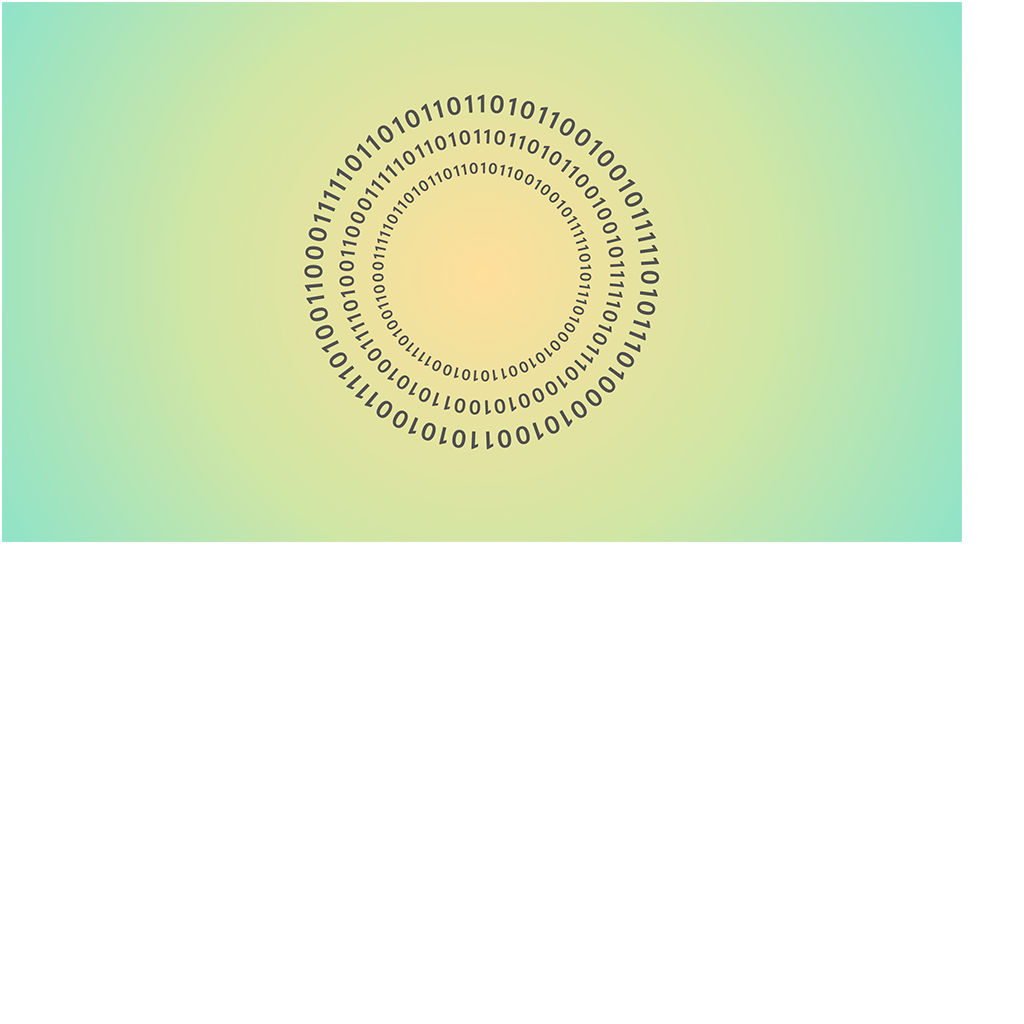
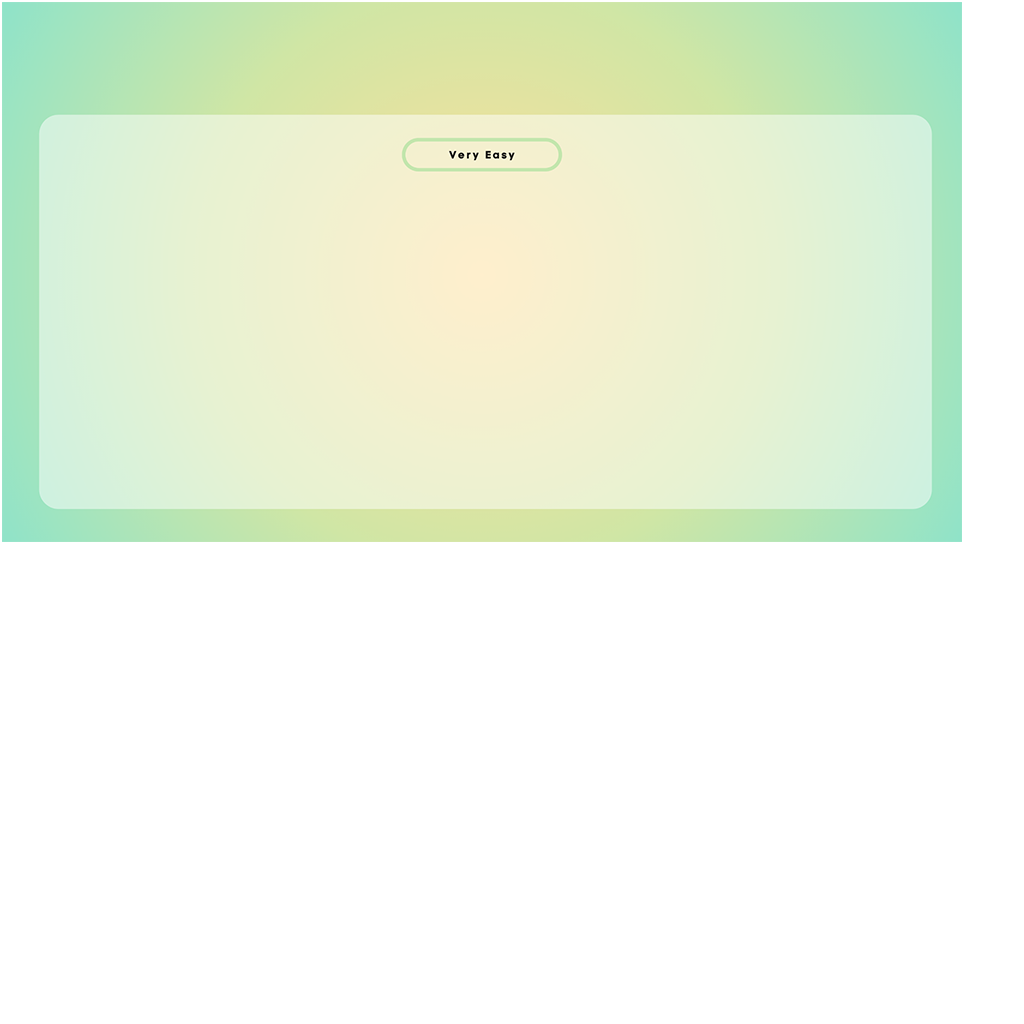
Add HowToPlayScreen

diff --git a/core/src/com/mygdx/game/HowToPlayScreen.java b/core/src/com/mygdx/game/HowToPlayScreen.java
@@ -1,0 +1,106 @@
+package com.mygdx.game;
+
+import com.badlogic.gdx.Gdx;
+import com.badlogic.gdx.Input;
+import com.badlogic.gdx.InputAdapter;
+import com.badlogic.gdx.Screen;
+import com.badlogic.gdx.graphics.GL20;
+import com.badlogic.gdx.graphics.OrthographicCamera;
+import com.badlogic.gdx.graphics.g2d.SpriteBatch;
+import com.badlogic.gdx.math.Vector2;
+import com.badlogic.gdx.utils.viewport.ExtendViewport;
+
+import util.Assets;
+import util.Constants;
+import util.Util;
+
+public class HowToPlayScreen extends InputAdapter implements Screen {
+    private static final String TAG = HowToPlayScreen.class.getName();
+
+    private ProgrammerGame programmerGame;
+    private SpriteBatch batch;
+    private ExtendViewport viewport;
+    private OrthographicCamera camera;
+    private int pageCounter;
+
+    public HowToPlayScreen(ProgrammerGame programmerGame, SpriteBatch batch){
+        this.programmerGame = programmerGame;
+        this.batch = batch;
+        camera = new OrthographicCamera(Constants.WORLD_SIZE_WIDTH, Constants.WORLD_SIZE_HEIGHT);
+        viewport = new ExtendViewport(Constants.WORLD_SIZE_WIDTH, Constants.WORLD_SIZE_HEIGHT, camera);
+        camera.position.set(viewport.getWorldWidth(), viewport.getWorldHeight(), 0);
+
+    }
+
+    @Override
+    public void show() {
+        pageCounter = 0;
+        Gdx.input.setInputProcessor(this);
+    }
+
+    @Override
+    public void render(float delta) {
+        viewport.apply();
+        Gdx.gl.glClearColor(
+                Constants.BACKGROUND_COLOR.r,
+                Constants.BACKGROUND_COLOR.g,
+                Constants.BACKGROUND_COLOR.b,
+                Constants.BACKGROUND_COLOR.a);
+
+        Gdx.gl.glClear(GL20.GL_COLOR_BUFFER_BIT);
+
+        batch.setProjectionMatrix(viewport.getCamera().combined);
+
+        batch.begin();
+
+        if(pageCounter == 0){
+            //instructions bg
+            Util.drawTextureRegion(batch, Assets.instance.howToPlayScreenAssets.instructionsBG, new Vector2(viewport.getCamera().viewportWidth / 2, viewport.getCamera().viewportHeight / 2), Constants.BG_CENTER);
+        } else if(pageCounter == 1){
+            //lifelines bg
+            Util.drawTextureRegion(batch, Assets.instance.howToPlayScreenAssets.lifelineBG, new Vector2(viewport.getCamera().viewportWidth / 2, viewport.getCamera().viewportHeight / 2), Constants.BG_CENTER);
+        }
+
+        batch.end();
+
+        if(Gdx.input.isKeyJustPressed(Input.Keys.LEFT)){
+            if(pageCounter-1 >= 0){
+                pageCounter--;
+            }
+        }
+
+        if(Gdx.input.isKeyJustPressed(Input.Keys.RIGHT)){
+            if(pageCounter+1 < 2){
+                pageCounter++;
+            }
+        }
+        if(Gdx.input.isKeyJustPressed(Input.Keys.ESCAPE)){
+            programmerGame.showMainMenuScreen();
+        }
+    }
+
+    @Override
+    public void resize(int width, int height) {
+        viewport.update(width, height, true);
+    }
+
+    @Override
+    public void pause() {
+
+    }
+
+    @Override
+    public void resume() {
+
+    }
+
+    @Override
+    public void hide() {
+
+    }
+
+    @Override
+    public void dispose() {
+
+    }
+}

diff --git a/core/src/com/mygdx/game/JigsawScreen.java b/core/src/com/mygdx/game/JigsawScreen.java
@@ -255,11 +255,11 @@ public class JigsawScreen extends InputAdapter implements Screen {
     @Override
     public boolean touchDown(int screenX, int screenY, int pointer, int button) {
         worldTouch = viewport.unproject(new Vector2(screenX, screenY));
+        //continue button
+        Vector2 continueButtonCenter = new Vector2(viewport.getCamera().viewportWidth / 2, viewport.getCamera().viewportHeight / 2f - 160);
+        Rectangle continueButtonBoundingBox = new Rectangle(continueButtonCenter.x - Constants.CONTINUE_BUTTON_WIDTH / 2, continueButtonCenter.y - Constants.CONTINUE_BUTTON_HEIGHT / 2, Constants.CONTINUE_BUTTON_WIDTH, Constants.CONTINUE_BUTTON_HEIGHT);
 
         if(noOfclues == noOfDroppedPuzzlePieces){
-            //continue button
-            Vector2 continueButtonCenter = new Vector2(viewport.getCamera().viewportWidth / 2, viewport.getCamera().viewportHeight / 2f - 160);
-            Rectangle continueButtonBoundingBox = new Rectangle(continueButtonCenter.x - Constants.CONTINUE_BUTTON_WIDTH / 2, continueButtonCenter.y - Constants.CONTINUE_BUTTON_HEIGHT / 2, Constants.CONTINUE_BUTTON_WIDTH, Constants.CONTINUE_BUTTON_HEIGHT);
             if(continueButtonBoundingBox.contains(worldTouch)){
                 programmerGame.showDifficultyScreen();
             }
@@ -267,9 +267,7 @@ public class JigsawScreen extends InputAdapter implements Screen {
 
         if(!handledClue){
             //continue button
-            Vector2 continueButtonCenter = new Vector2(viewport.getCamera().viewportWidth / 2, viewport.getCamera().viewportHeight / 2f - 160);
-            Rectangle continueButtonBoundingBox = new Rectangle(continueButtonCenter.x - Constants.CONTINUE_BUTTON_WIDTH / 2, continueButtonCenter.y - Constants.CONTINUE_BUTTON_HEIGHT / 2, Constants.CONTINUE_BUTTON_WIDTH, Constants.CONTINUE_BUTTON_HEIGHT);
-            if(continueButtonBoundingBox.contains(worldTouch)){
+             if(continueButtonBoundingBox.contains(worldTouch)){
                 handledClue = true;
             }
 

diff --git a/core/src/util/Assets.java b/core/src/util/Assets.java
@@ -24,6 +24,8 @@ import com.mygdx.game.GameplayScreen;
 import java.io.InputStream;
 import java.util.HashMap;
 
+import javax.xml.soap.Text;
+
 public class Assets implements Disposable, AssetErrorListener {
     public static final String TAG = Assets.class.getName();
 
@@ -35,6 +37,7 @@ public class Assets implements Disposable, AssetErrorListener {
     public CorrectAnswerScreenAssets correctAnswerScreenAssets;
     public ResourcesFilePath resourcesFilePath;
     public Font font;
+    public HowToPlayScreenAssets howToPlayScreenAssets;
 
     private AssetManager assetManager;
 
@@ -54,6 +57,7 @@ public class Assets implements Disposable, AssetErrorListener {
         gameplayScreenAssets = new GameplayScreenAssets(atlas);
         gameOverScreenAssets = new GameOverScreenAssets(atlas);
         correctAnswerScreenAssets = new CorrectAnswerScreenAssets(atlas);
+        howToPlayScreenAssets = new HowToPlayScreenAssets(atlas);
         font = new Font();
     }
 
@@ -243,6 +247,16 @@ public class Assets implements Disposable, AssetErrorListener {
             optionsButton = atlas.findRegion(Constants.OPTIONS_BUTTON);
             howToPlayButton = atlas.findRegion(Constants.HOWTOPLAY_BUTTON);
             usernameTextfield = atlas.findRegion(Constants.USERNAME_TEXTFIELD);
+        }
+    }
+
+    public class HowToPlayScreenAssets{
+        public final TextureAtlas.AtlasRegion instructionsBG;
+        public final TextureAtlas.AtlasRegion lifelineBG;
+
+        public HowToPlayScreenAssets(TextureAtlas atlas){
+            instructionsBG = atlas.findRegion(Constants.INSTRUCTIONS_BG);
+            lifelineBG = atlas.findRegion(Constants.LIFELINE_BG);
         }
     }
 

diff --git a/core/src/util/Constants.java b/core/src/util/Constants.java
@@ -28,6 +28,10 @@ public class Constants {
     public static final Vector2 MAIN_MENU_BUTTON_CENTER = new Vector2(80, 25);
     public static final Vector2 BG_CENTER = new Vector2(480, 270);
 
+    //How to Play Screen Assets
+    public static final String INSTRUCTIONS_BG = "instructions-bg";
+    public static final String LIFELINE_BG = "lifeline-bg";
+
     //Difficulty Screen Assets
     public static final String DIFFICULTY_BG = "difficulty-bg";
     public static final String THEORETICALQUESTIONS_LABEL = "theoreticalQuestions-label";

diff --git a/core/src/com/mygdx/game/MainMenuScreen.java b/core/src/com/mygdx/game/MainMenuScreen.java
@@ -116,9 +116,9 @@ public class MainMenuScreen extends InputAdapter implements Screen {
 //            hackerGame.showOptionsScreen();
 //        }
 //
-//        if(helpButtonBoundingBox.contains(worldTouch)){
-//            hackerGame.showHelpScreen();
-//        }
+        if(helpButtonBoundingBox.contains(worldTouch)){
+            programmerGame.showHowToPlayScreen();
+        }
 
         return true;
     }

diff --git a/core/src/com/mygdx/game/ProgrammerGame.java b/core/src/com/mygdx/game/ProgrammerGame.java
@@ -47,6 +47,10 @@ public class ProgrammerGame extends Game {
 		setScreen(new MainMenuScreen(this, this.batch));
 	}
 
+	public void showHowToPlayScreen(){
+		setScreen(new HowToPlayScreen(this, this.batch));
+	}
+
 	public void showDifficultyScreen(){ setScreen(new DifficultyScreen(this, this.batch));}
 
 	public void showGameplayScreen(Difficulty difficulty){
